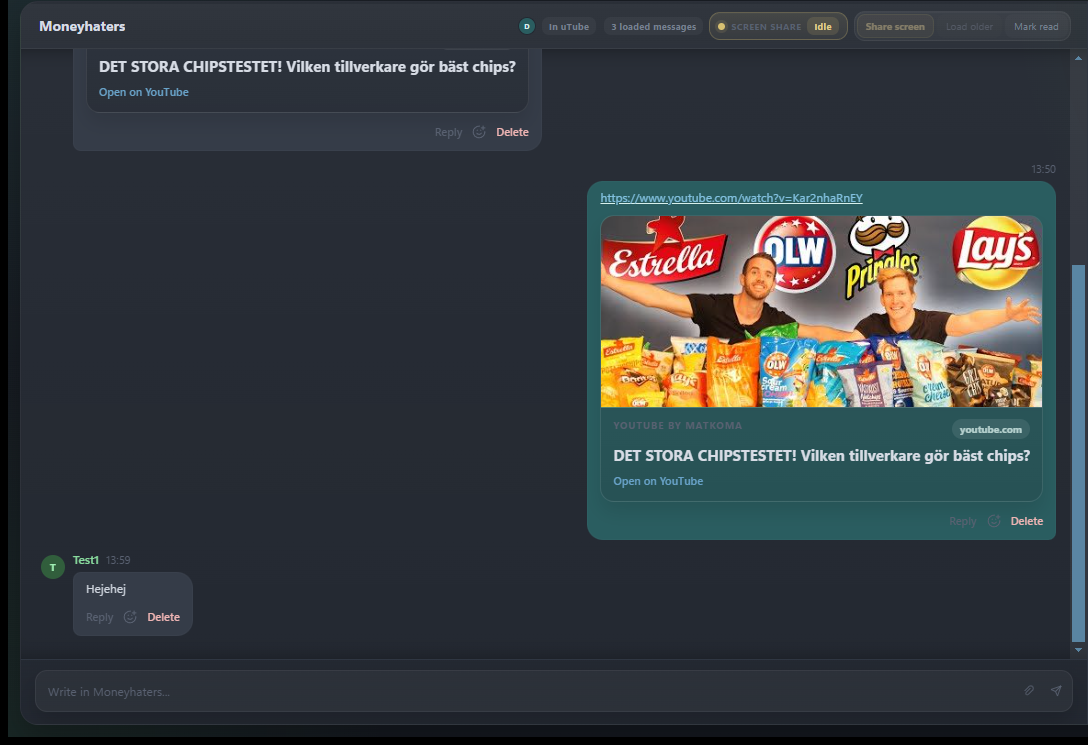
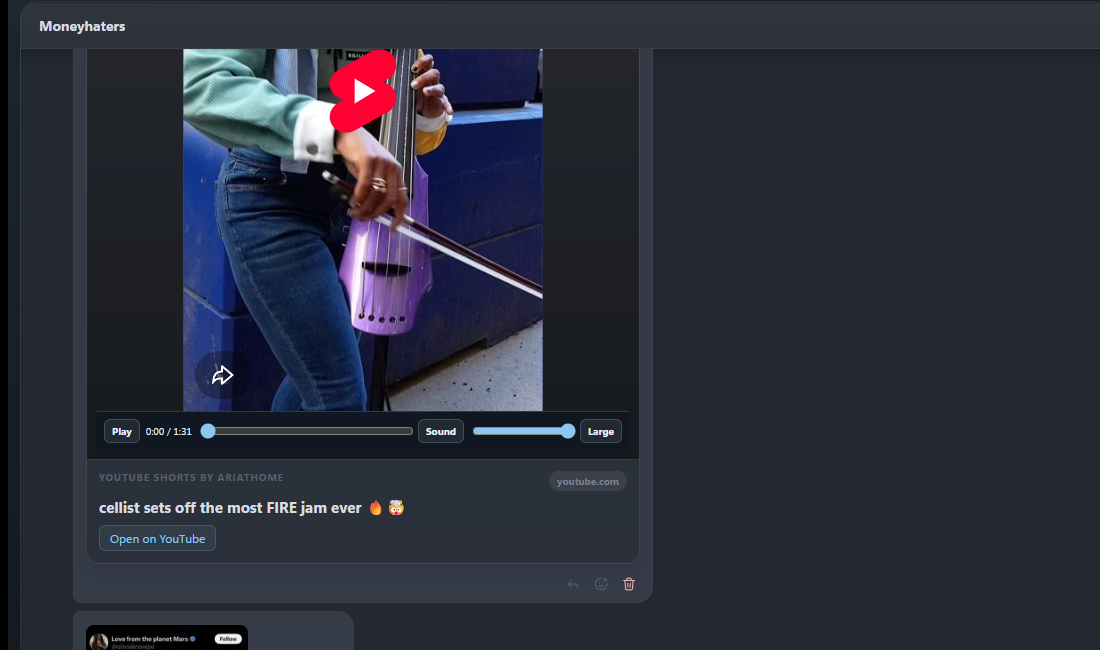
Update README preview screenshots

diff --git a/README.md b/README.md
@@ -43,7 +43,7 @@ If you want the official stable Mumble project, start at
 
 | Modern Rich Chat | Rich Preview Detail | Classic Mumble Baseline |
 | --- | --- | --- |
-| <img src="screenshots/modern-client-rich-chat.png" alt="Modern persistent chat client with rich YouTube preview" width="360"> | <img src="screenshots/modern-rich-card-youtube.png" alt="Inline rich preview card detail" width="360"> | <img src="screenshots/Mumble.png" alt="Classic Mumble client in light and dark themes" width="360"> |
+| <img src="screenshots/modern-client-rich-chat.png" alt="Modern persistent chat client with playable YouTube preview controls" width="360"> | <img src="screenshots/modern-rich-card-youtube.png" alt="Playable inline YouTube preview card detail" width="360"> | <img src="screenshots/Mumble.png" alt="Classic Mumble client in light and dark themes" width="360"> |
 
 ## Feature Inventory
 
@@ -56,7 +56,7 @@ community feature set on top. The long-form inventory lives in
 | Upstream Mumble baseline | Retained | Low-latency Opus voice, channels, ACLs, certificates, shortcuts, plugins, server tooling, and the classic Qt client/server paths. |
 | Persistent chat | Active fork feature | Stored history for voice-room chats, dedicated text rooms, optional server-global chat, read state, unread counts, pagination, replies, deletion, and reactions. |
 | Rich media chat | Active fork feature | Chunked authenticated uploads, image/video/document/binary asset storage, preview thumbnails, inline media rendering, and quota controls. |
-| Link preview cards | Active fork feature | Provider-aware cards for video, social posts, GitHub, Steam, finance links, product/listing pages, news, maps, weather, transit, game stores, and direct media. |
+| Link preview cards | Active fork feature | Provider-aware cards for playable YouTube/video previews, social posts, GitHub, Steam, finance links, product/listing pages, news, maps, weather, transit, game stores, and direct media. |
 | Modern client shell | Active fork feature | WebEngine-based chat/navigator shell with persistent rooms, compact message controls, rich cards, room-aware composer state, and a classic fallback path. |
 | Finance and stonks | Active server feature | Cashtag extraction, Yahoo Finance quote cards with chart data, provider links, and a scoped `#stonks` room with scores, leaderboards, and follows. |
 | Watch together | Protocol/server foundation | Capability-gated room media-session messages for synchronized direct media or YouTube playback; client UI is still a future layer. |

diff --git a/docs/fork-features.md b/docs/fork-features.md
@@ -32,6 +32,7 @@ Current capabilities:
 - server MOTD/sidebar presentation
 - compact message controls for reply/delete actions
 - rich media and provider-specific preview cards
+- playable YouTube/video preview controls when the provider and WebEngine surface support inline playback
 - image, GIF, video, product, Steam/game-store, social posts including X/Twitter, GitHub, finance, forum, article, map, place, traffic, and weather card layouts
 - local disk preview cache with selective session refresh for richer providers
 
